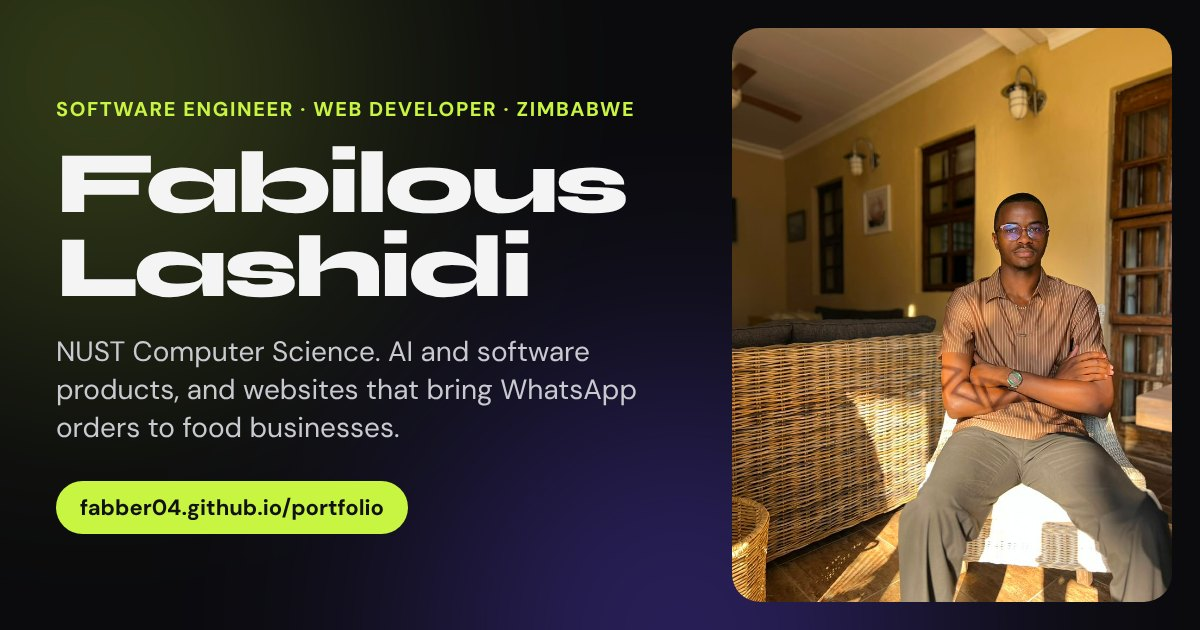
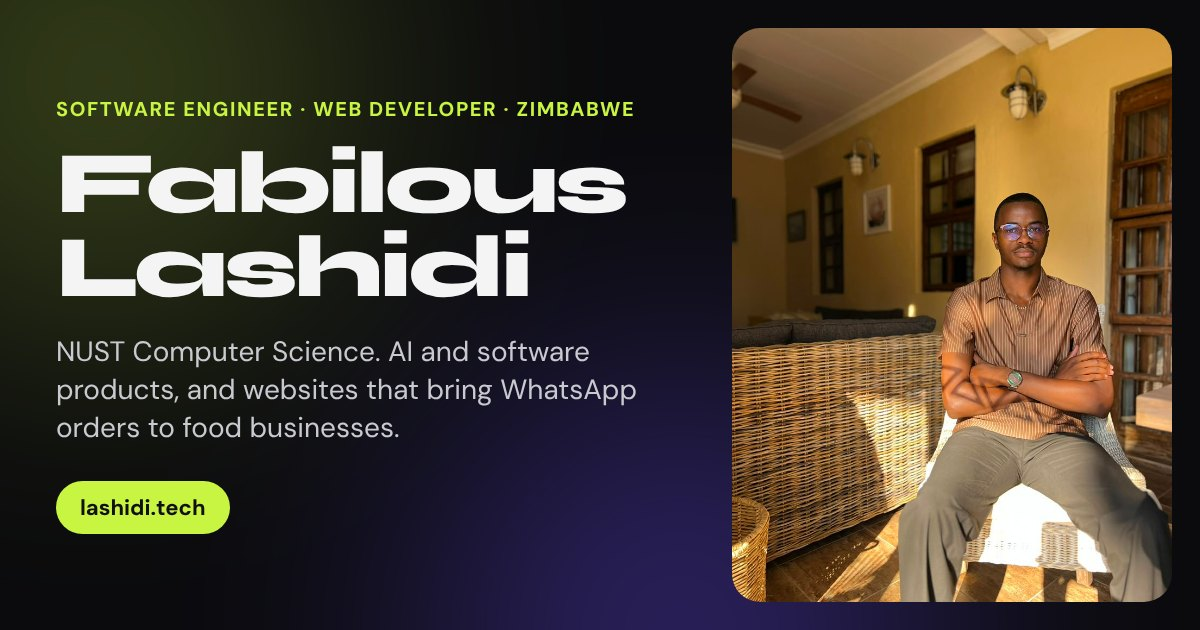
Move the portfolio to the lashidi.tech custom domain.
Adds the CNAME file and a domain-root robots.txt, and points the
canonical links, share tags, structured data and sitemap at
https://lashidi.tech/. Merge only after DNS for lashidi.tech is set up.

Claude-Session: https://claude.ai/code/session_016ptNrHfdfR37KfAL4RVn6p

Changed region(s): [[0.0617, 0.754, 0.3392, 0.8746]]

diff --git a/index.html b/index.html
@@ -10,7 +10,7 @@
       content="Fabilous Lashidi, NUST Computer Science student and software engineer building AI, plus web design that brings WhatsApp orders to small businesses."
     />
     <meta name="author" content="Fabilous Lashidi" />
-    <link rel="canonical" href="https://fabber04.github.io/portfolio/" />
+    <link rel="canonical" href="https://lashidi.tech/" />
 
     <!-- Google Search Console verification -->
     <meta name="google-site-verification" content="uc8uU4NpJKt_Q7pCjGrz0elN5Xj8AU-YX1UFQvohOOE" />
@@ -23,8 +23,8 @@
       property="og:description"
       content="NUST Computer Science student building AI and software products, plus websites that bring WhatsApp orders to food businesses."
     />
-    <meta property="og:url" content="https://fabber04.github.io/portfolio/" />
-    <meta property="og:image" content="https://fabber04.github.io/portfolio/assets/og-share.jpg" />
+    <meta property="og:url" content="https://lashidi.tech/" />
+    <meta property="og:image" content="https://lashidi.tech/assets/og-share.jpg" />
     <meta property="og:image:width" content="1200" />
     <meta property="og:image:height" content="630" />
     <meta property="og:image:alt" content="Fabilous Lashidi, software engineer and web developer in Zimbabwe" />
@@ -34,18 +34,18 @@
       name="twitter:description"
       content="NUST Computer Science student building AI and software products, plus websites that bring WhatsApp orders to food businesses."
     />
-    <meta name="twitter:image" content="https://fabber04.github.io/portfolio/assets/og-share.jpg" />
+    <meta name="twitter:image" content="https://lashidi.tech/assets/og-share.jpg" />
 
     <script type="application/ld+json">
       {
         "@context": "https://schema.org",
         "@type": "Person",
-        "@id": "https://fabber04.github.io/portfolio/#person",
+        "@id": "https://lashidi.tech/#person",
         "name": "Fabilous Lashidi",
         "jobTitle": "Software Engineer and Web Developer",
         "description": "Computer Science student at NUST building AI and software products, and websites for small food businesses in Zimbabwe.",
-        "url": "https://fabber04.github.io/portfolio/",
-        "image": "https://fabber04.github.io/portfolio/assets/portrait.jpg",
+        "url": "https://lashidi.tech/",
+        "image": "https://lashidi.tech/assets/portrait.jpg",
         "email": "mailto:fabulousdallen87@gmail.com",
         "address": { "@type": "PostalAddress", "addressCountry": "ZW" },
         "affiliation": {

diff --git a/about.html b/about.html
@@ -12,11 +12,11 @@
     <meta property="og:title" content="About Fabilous Lashidi" />
     <meta property="og:description" content="Software developer from Harare. Cofounder of CT Flex, recognized at AIE 2026." />
     <meta property="og:type" content="profile" />
-    <meta property="og:url" content="https://fabber04.github.io/portfolio/about.html" />
-    <meta property="og:image" content="https://fabber04.github.io/portfolio/assets/og-share.jpg" />
+    <meta property="og:url" content="https://lashidi.tech/about.html" />
+    <meta property="og:image" content="https://lashidi.tech/assets/og-share.jpg" />
     <meta name="twitter:card" content="summary_large_image" />
-    <meta name="twitter:image" content="https://fabber04.github.io/portfolio/assets/og-share.jpg" />
-    <link rel="canonical" href="https://fabber04.github.io/portfolio/about.html" />
+    <meta name="twitter:image" content="https://lashidi.tech/assets/og-share.jpg" />
+    <link rel="canonical" href="https://lashidi.tech/about.html" />
     <link rel="icon" type="image/svg+xml" href="assets/favicon.svg" />
     <link rel="preconnect" href="https://fonts.googleapis.com" />
     <link rel="preconnect" href="https://fonts.gstatic.com" crossorigin />
